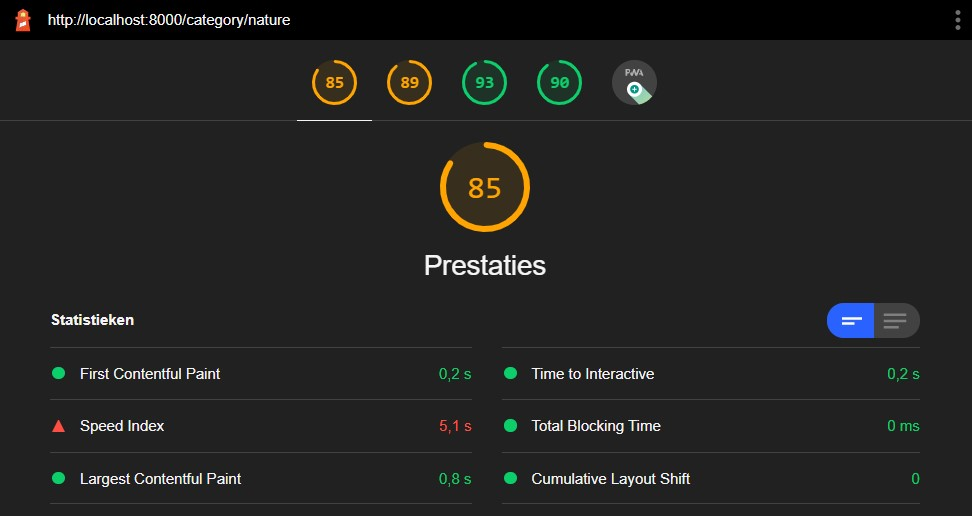
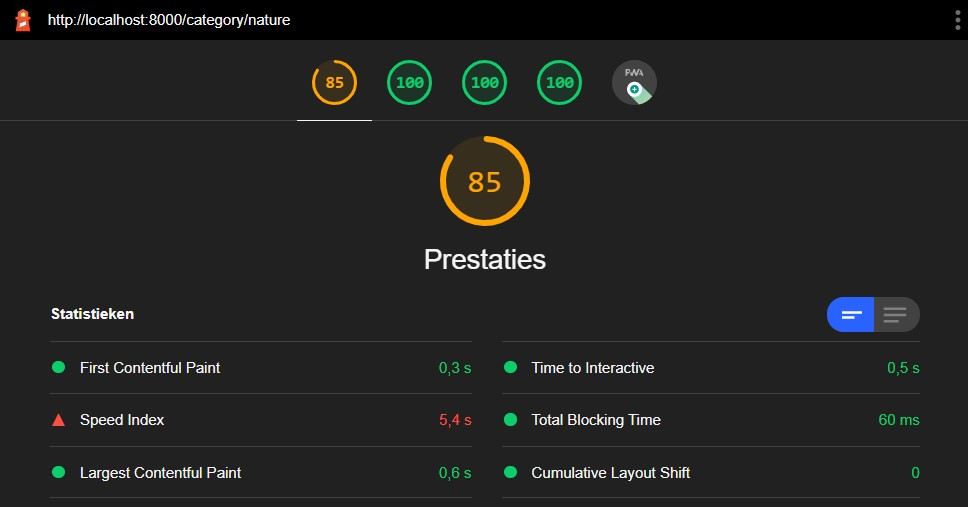
updated readme

diff --git a/README.md b/README.md
@@ -74,7 +74,7 @@ Build export.
 ### API
 API calls take a long time, I did some research to improve fetch time, but there is no solution. Serving cached images doesn't fit the project concept and therefore is not suitable.
 ### Performance enhancements
-| <ul><li>- [x] Minified JS</li><li>- [x] Minified CSS</li><li>- [x] 0ms blocking time</li><li>- [x] No layout shifts</li><li>- [x] Very fast contentful paint</li><li>- [x] Very fast time to interactive</li><li>- [ ] Fast API calls</li></ul> | ![Performance](https://github.com/rickgroot/progressive-web-apps-2021/blob/main/assets/performance.jpg?raw=true) |
+| <ul><li>- [x] Minified JS</li><li>- [x] Minified CSS</li><li>- [x] Low total blocking time</li><li>- [x] No layout shifts</li><li>- [x] Very fast contentful paint</li><li>- [x] Very fast time to interactive</li><li>- [ ] Fast API calls</li></ul> | ![Performance](https://github.com/rickgroot/progressive-web-apps-2021/blob/main/assets/performance.jpg?raw=true) |
 |:---|:---:|
 
 ### UX performance enhancements
